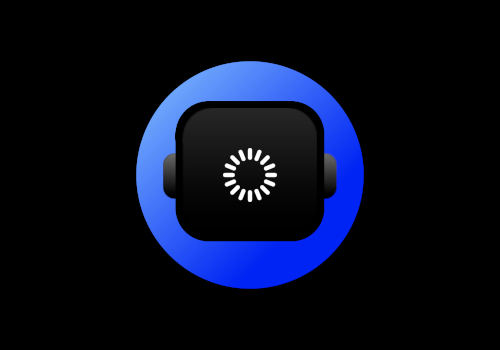
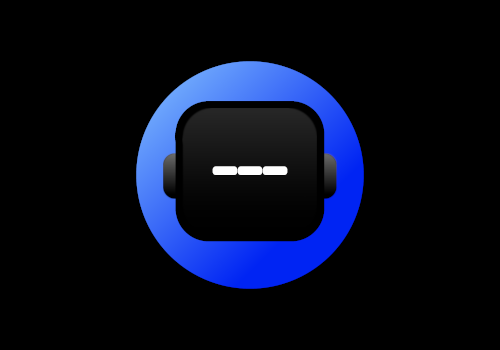
Ajout IMG Load

Changed region(s): [[0.42, 0.4286, 0.57, 0.5714]]

diff --git a/src/SixGUI.py b/src/SixGUI.py
@@ -81,9 +81,8 @@ class six_gui(aTk) :
                      "mute2.png",#5
                      "noConnect.png",#6
                      "load0.png",#7
-                     "",#8
-                     "",#9
-                     "parole0.png",#10
+                     "load1.png",#8
+                     "load2.png",#10
                      "parole1.png",#11
                      "boot0.png",#12
                      "boot1.png",#13
